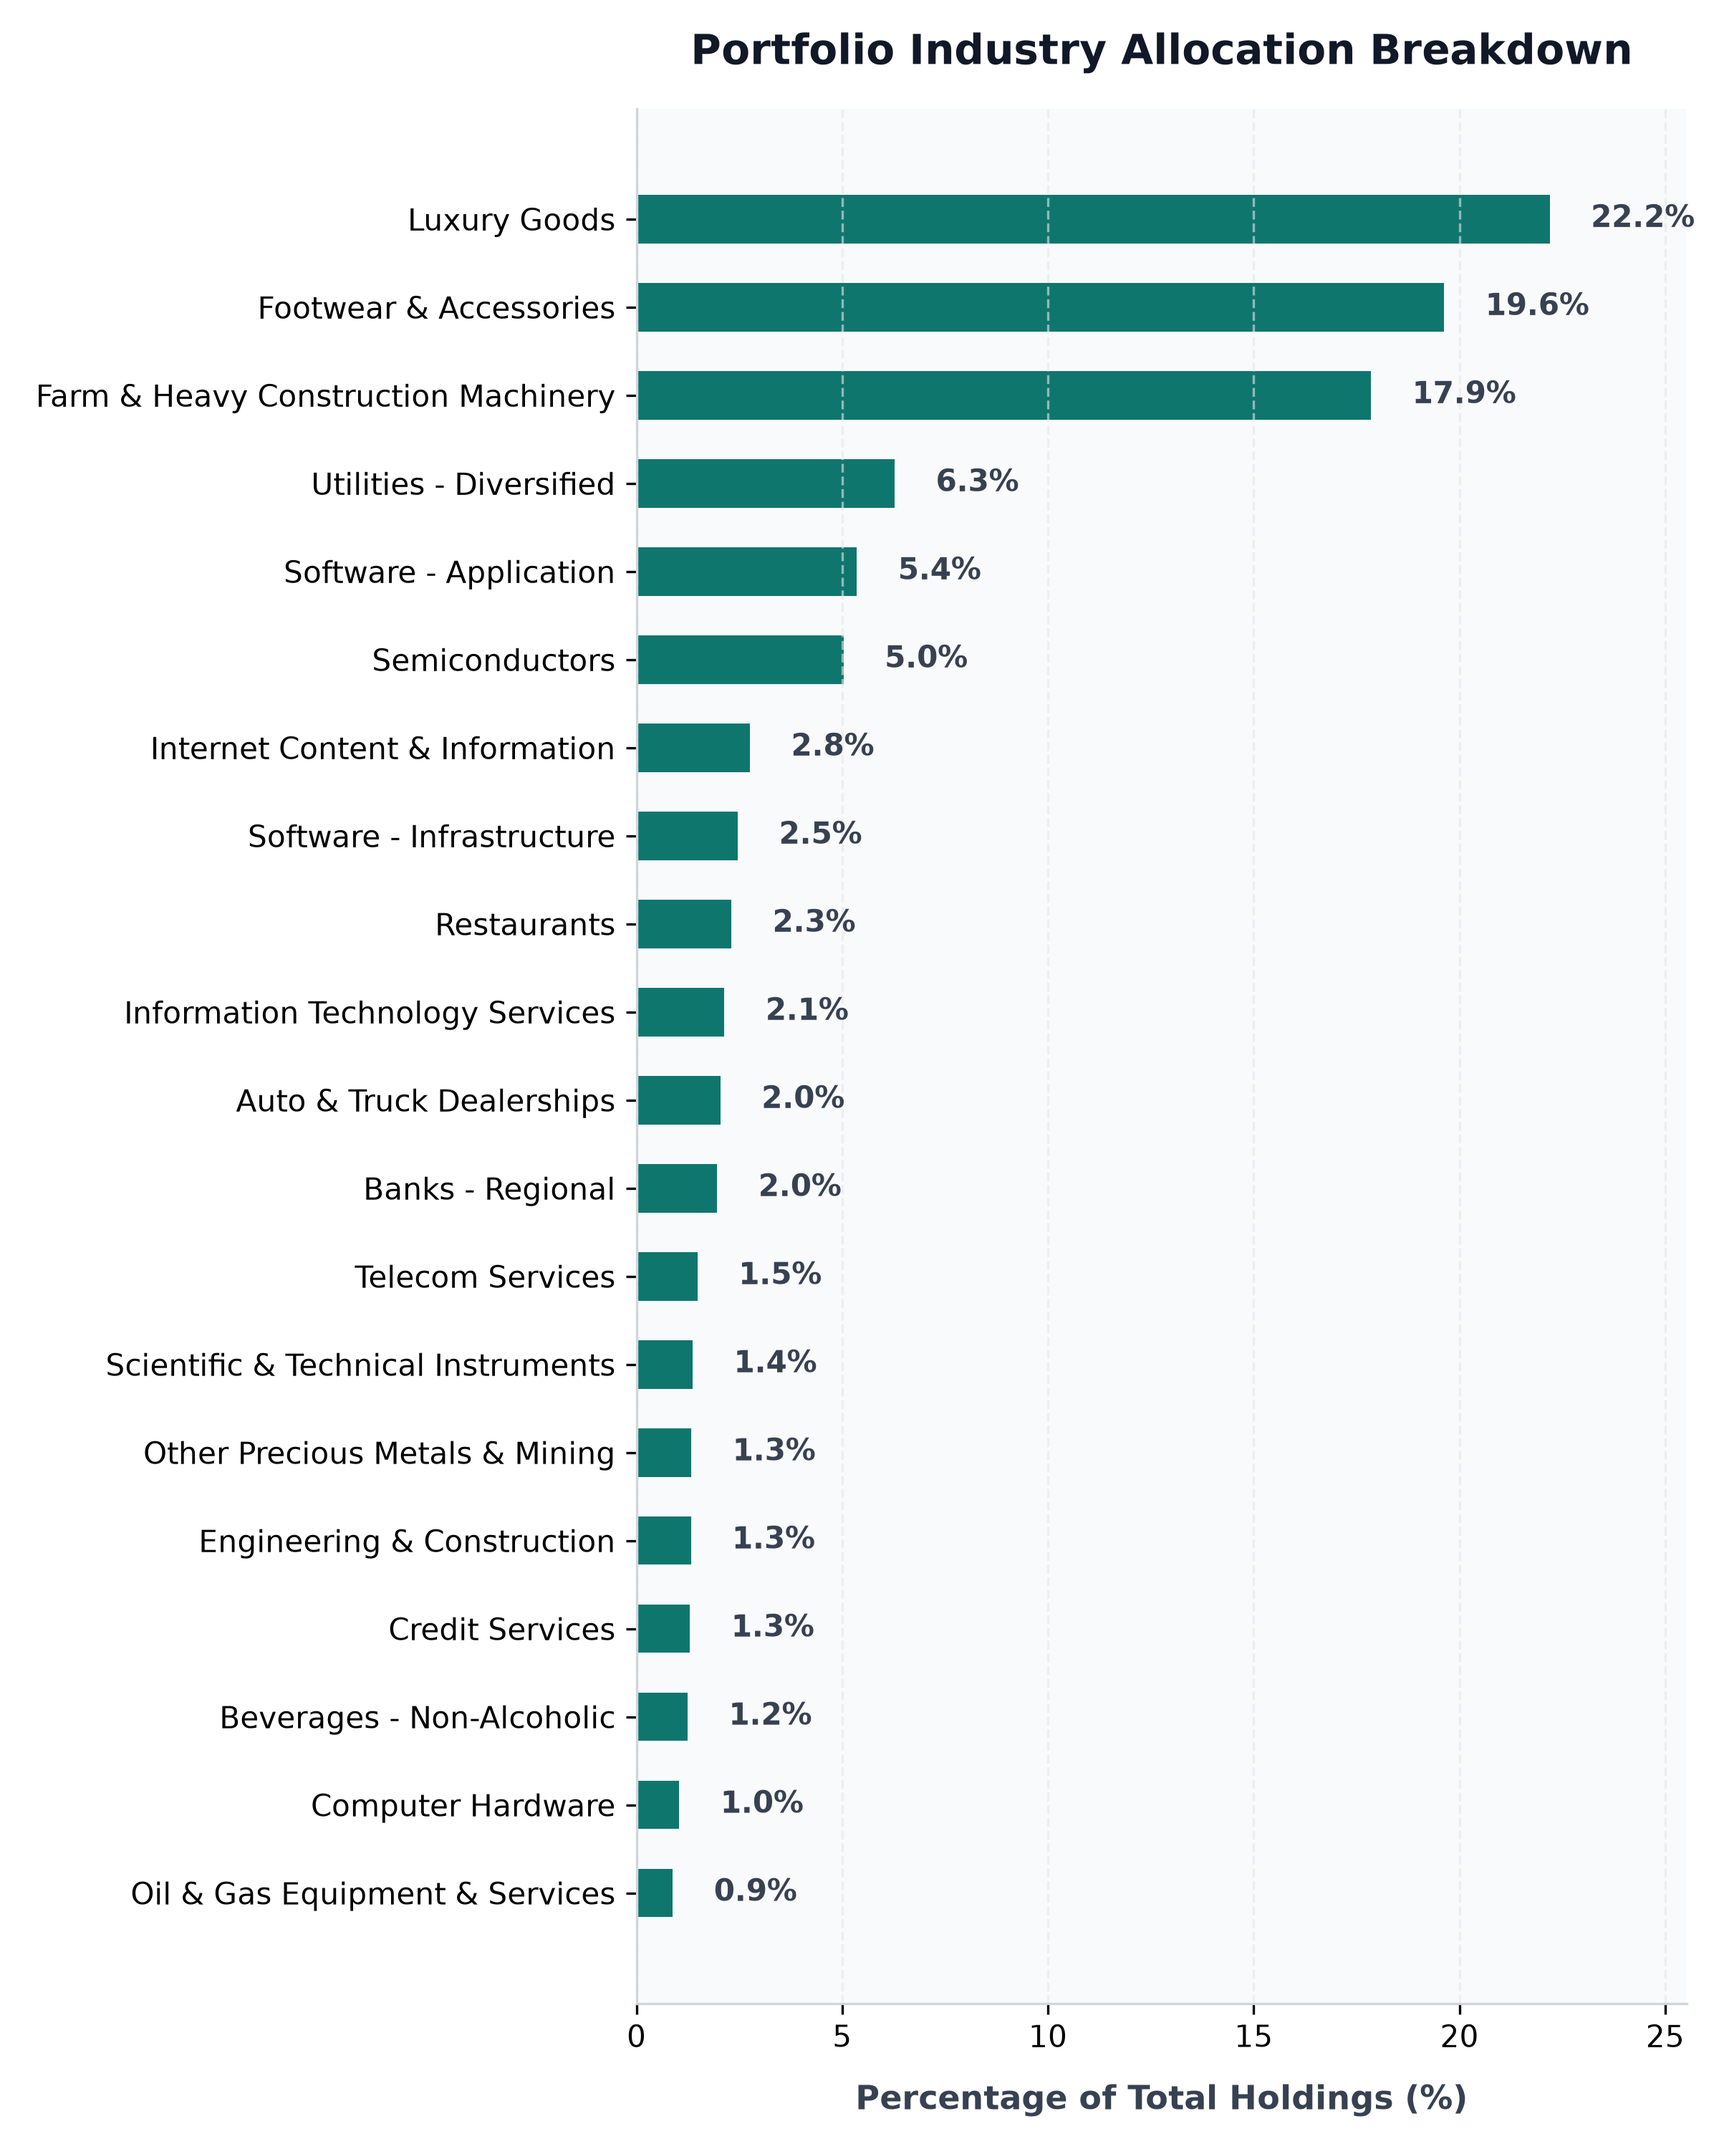
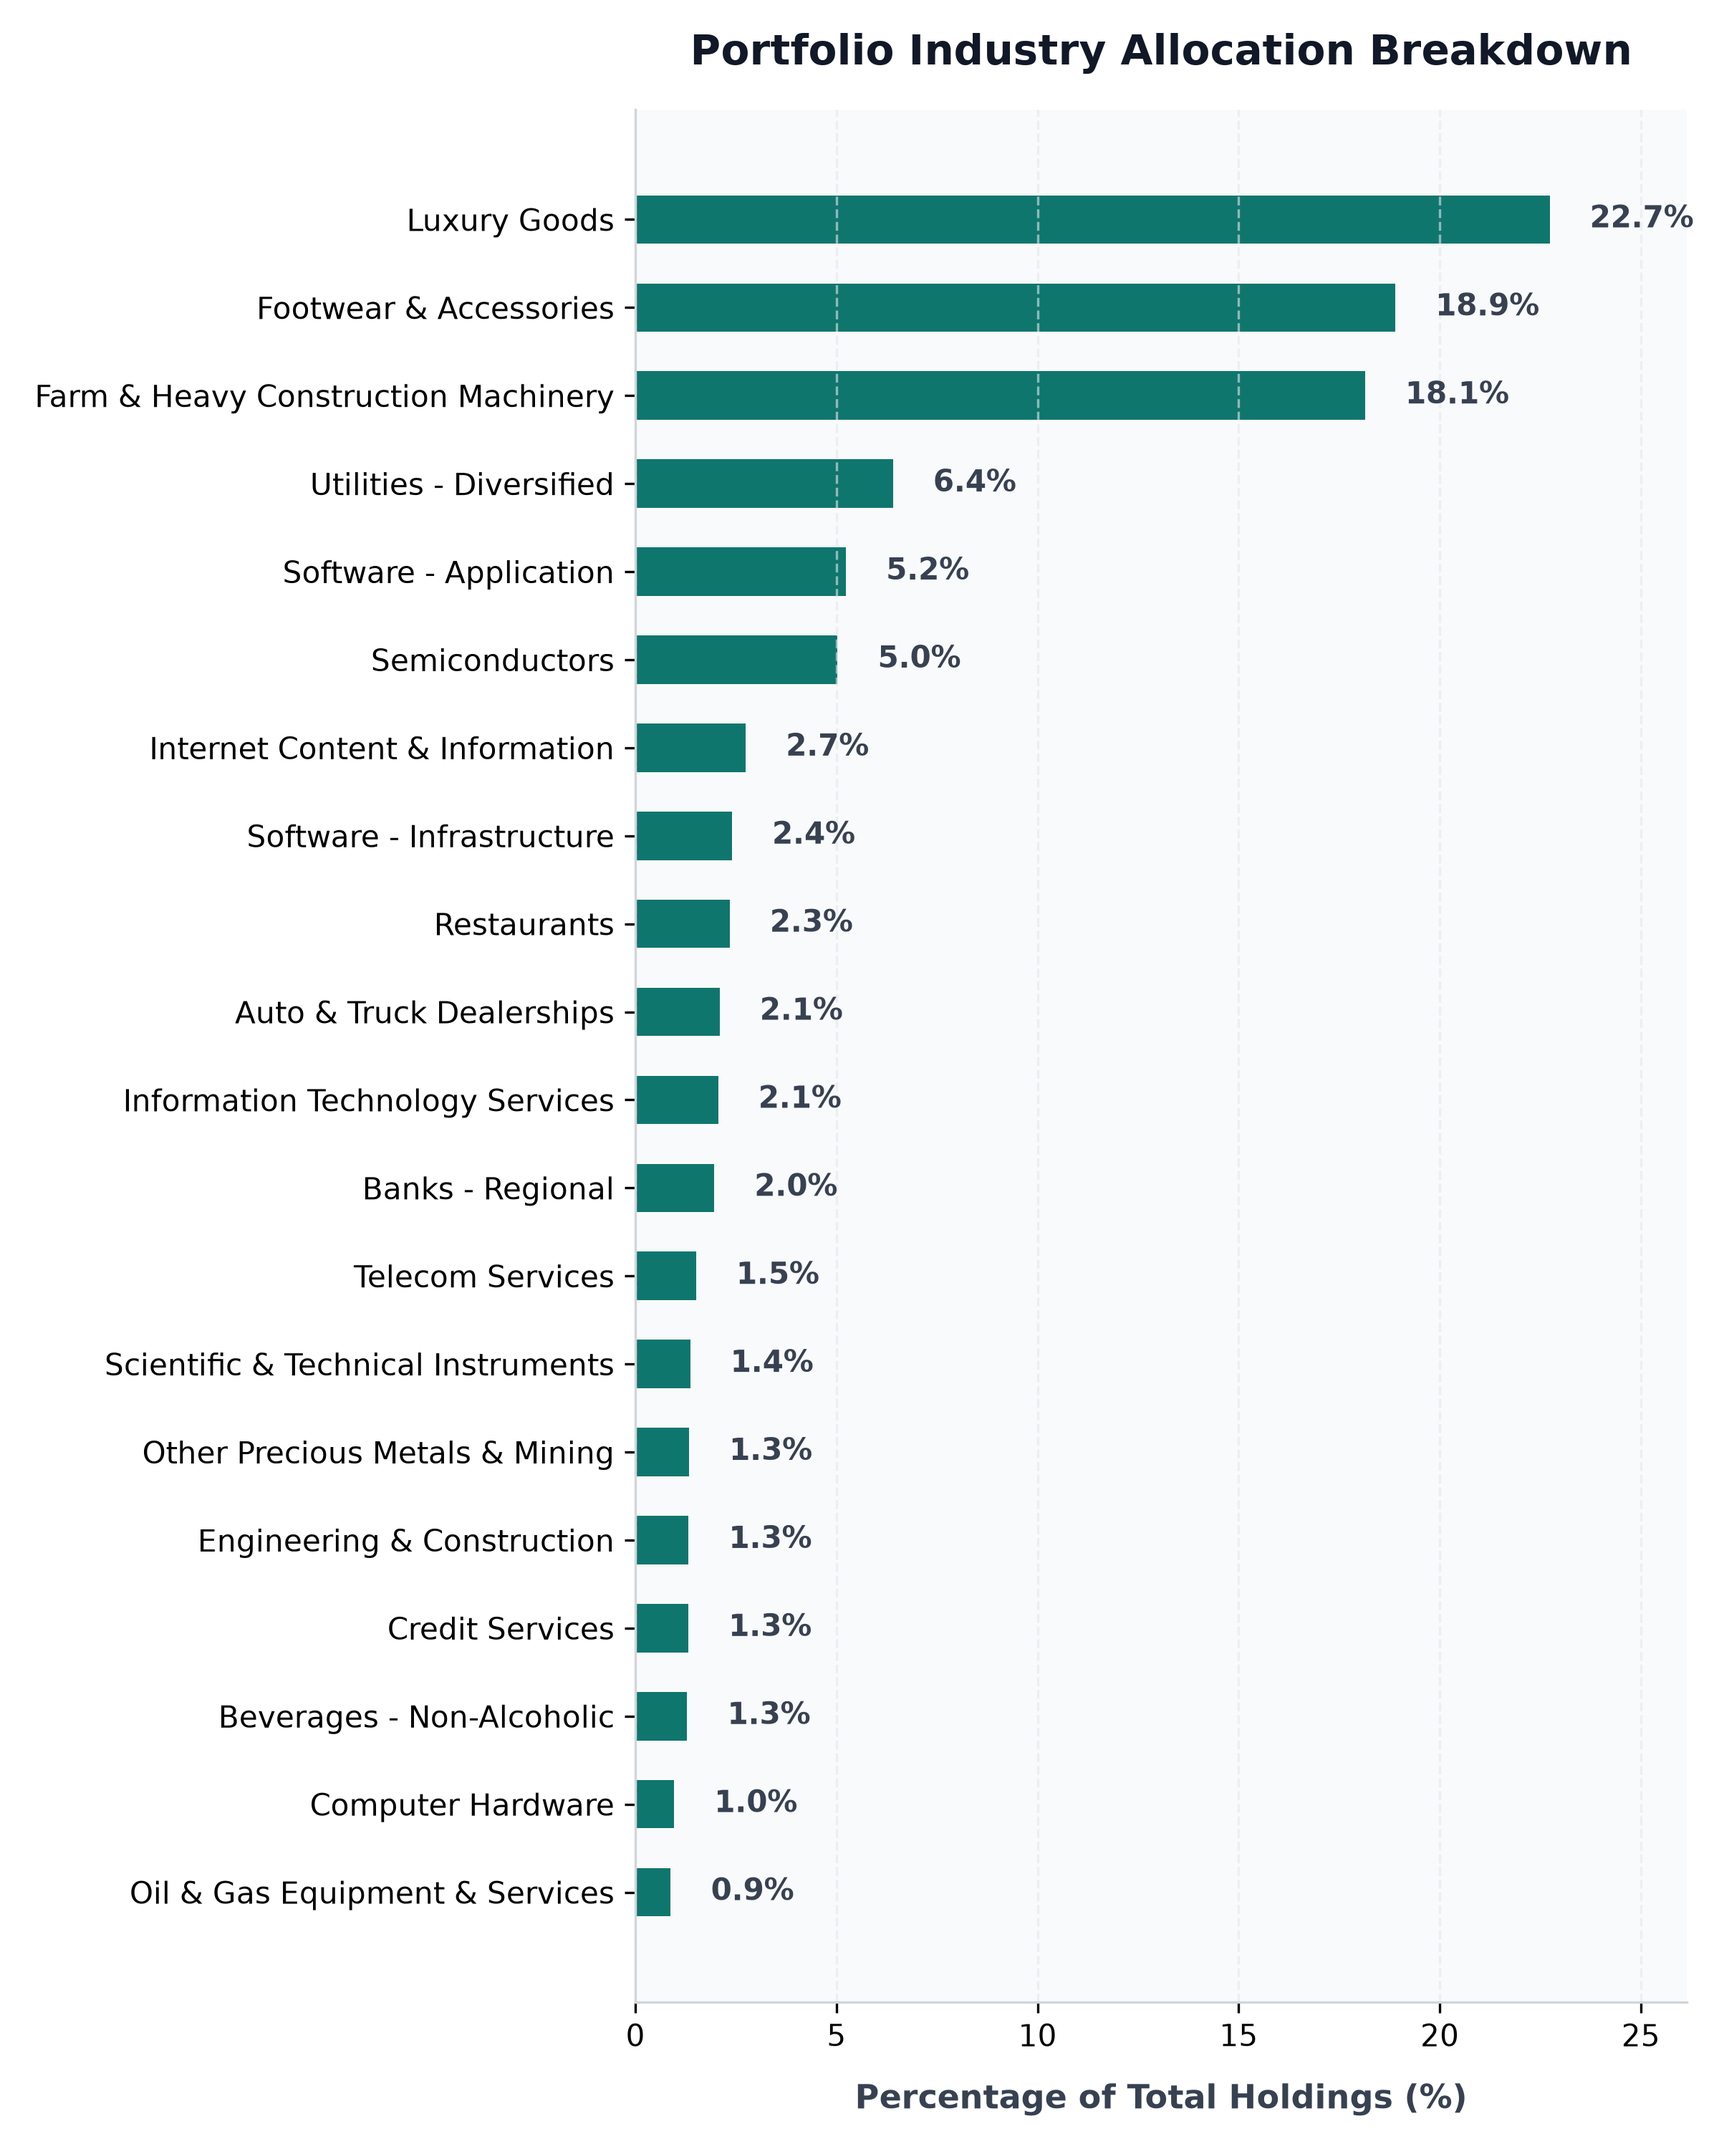
auto: daily portfolio status update - 2026-10-17 00:00:14

diff --git a/src/content/posts/portfolio-performance.md b/src/content/posts/portfolio-performance.md
@@ -1,6 +1,6 @@
 ---
 title: "BadOmen Algorithmic Portfolio Performance & PnL Report"
-pubDatetime: 2026-10-16T06:05:13.826400+08:00
+pubDatetime: 2026-10-17T00:00:14.484591+08:00
 description: "Live performance metrics, active holdings, and historic equity curve for the BadOmen automated paper trading portfolio."
 featured: true
 draft: false
@@ -16,11 +16,11 @@ Welcome to the live performance dashboard for **BadOmen**, our automated algorit
 ## 📊 Portfolio Summary
 | Performance Metric | Value | description |
 | :--- | :--- | :--- |
-| **Net Portfolio Equity** | **$98,634.27** | Total current liquidation value of cash and stock holdings |
-| **Total Unrealized P&L** | 🔴 **$-2,418.06** (-2.39%) | Total return of current open holdings |
-| **Cash Balance** | $24,224.56 | Idle reserve currency available for limit orders |
-| **Buying Power** | $305,245.43 | Margin-backed buying power for entry allocations |
-| **Report Updated** | `2026-10-16 06:05:13 (SGT)` | Timestamp of daily execution and sync run |
+| **Net Portfolio Equity** | **$98,090.96** | Total current liquidation value of cash and stock holdings |
+| **Total Unrealized P&L** | 🔴 **$-3,007.17** (-2.97%) | Total return of current open holdings |
+| **Cash Balance** | $24,266.50 | Idle reserve currency available for limit orders |
+| **Buying Power** | $303,774.49 | Margin-backed buying power for entry allocations |
+| **Report Updated** | `2026-10-17 00:00:14 (SGT)` | Timestamp of daily execution and sync run |
 
 ## 📈 Net Equity Growth Curve
 The chart below illustrates the historical performance of the account starting from our baseline capital funding of $100,000.00.
@@ -35,35 +35,35 @@ The chart below illustrates the exposure of our currently held active positions 
 ## 💼 Current Position Holdings
 | Ticker | Industry | Shares Owned | Average Entry Cost | Current Price | Unrealized P&L | Return (%) |
 | :--- | :--- | :--- | :--- | :--- | :--- | :--- |
-| **AN** | Auto & Truck Dealerships | 5 | $188.51 | $159.80 | 🔴 $-143.54 | -15.23% |
-| **AVGO** | Semiconductors | 1 | $385.71 | $343.90 | 🔴 $-41.81 | -10.84% |
-| **BIRK** | Footwear & Accessories | 407 | $37.32 | $35.89 | 🔴 $-581.08 | -3.83% |
-| **BLBD** | Farm & Heavy Construction Machinery | 231 | $65.52 | $57.51 | 🔴 $-1,849.38 | -12.22% |
-| **BVN** | Other Precious Metals & Mining | 32 | $31.88 | $31.05 | 🔴 $-26.40 | -2.59% |
-| **CELH** | Beverages - Non-Alcoholic | 33 | $29.71 | $28.06 | 🔴 $-54.54 | -5.56% |
-| **CPRI** | Luxury Goods | 1042 | $14.55 | $15.85 | 🟢 +$1,352.72 | +8.92% |
-| **DUOL** | Software - Application | 14 | $131.04 | $148.93 | 🟢 +$250.40 | +13.65% |
-| **FIS** | Information Technology Services | 23 | $41.79 | $36.13 | 🔴 $-130.18 | -13.54% |
-| **GDDY** | Software - Infrastructure | 6 | $76.21 | $107.61 | 🟢 +$188.40 | +41.20% |
-| **GDS** | Information Technology Services | 30 | $32.77 | $25.32 | 🔴 $-223.50 | -22.73% |
-| **GGAL** | Banks - Regional | 17 | $56.04 | $36.47 | 🔴 $-332.68 | -34.92% |
-| **GOOGL** | Internet Content & Information | 3 | $319.44 | $349.04 | 🟢 +$88.80 | +9.27% |
-| **GPI** | Auto & Truck Dealerships | 3 | $316.15 | $239.80 | 🔴 $-229.05 | -24.15% |
-| **HUBS** | Software - Application | 8 | $221.18 | $237.71 | 🟢 +$132.23 | +7.47% |
-| **ITRI** | Scientific & Technical Instruments | 12 | $81.80 | $84.77 | 🟢 +$35.64 | +3.63% |
-| **KBR** | Engineering & Construction | 27 | $36.23 | $36.44 | 🟢 +$5.59 | +0.57% |
-| **NESR** | Oil & Gas Equipment & Services | 34 | $28.74 | $19.34 | 🔴 $-319.60 | -32.71% |
-| **NU** | Banks - Regional | 57 | $11.60 | $14.75 | 🟢 +$179.63 | +27.17% |
-| **ON** | Semiconductors | 10 | $90.45 | $73.45 | 🔴 $-170.05 | -18.80% |
-| **ORCL** | Software - Infrastructure | 5 | $181.95 | $133.98 | 🔴 $-239.85 | -26.36% |
-| **PATH** | Software - Infrastructure | 38 | $10.25 | $13.64 | 🟢 +$128.82 | +33.07% |
-| **PYPL** | Credit Services | 17 | $56.05 | $57.00 | 🟢 +$16.15 | +1.70% |
-| **QCOM** | Semiconductors | 15 | $193.68 | $177.79 | 🔴 $-238.42 | -8.21% |
-| **SMCI** | Computer Hardware | 22 | $29.25 | $35.24 | 🟢 +$131.78 | +20.48% |
-| **SRE** | Utilities - Diversified | 57 | $84.75 | $81.93 | 🔴 $-160.88 | -3.33% |
-| **T** | Telecom Services | 47 | $20.85 | $23.49 | 🟢 +$124.08 | +12.66% |
-| **WEN** | Restaurants | 257 | $8.02 | $6.68 | 🔴 $-345.34 | -16.75% |
-| **ZG** | Internet Content & Information | 31 | $31.35 | $32.45 | 🟢 +$34.00 | +3.50% |
+| **AN** | Auto & Truck Dealerships | 5 | $188.51 | $162.78 | 🔴 $-128.64 | -13.65% |
+| **AVGO** | Semiconductors | 1 | $385.71 | $334.72 | 🔴 $-50.99 | -13.22% |
+| **BIRK** | Footwear & Accessories | 407 | $37.32 | $34.27 | 🔴 $-1,240.42 | -8.17% |
+| **BLBD** | Farm & Heavy Construction Machinery | 231 | $65.52 | $57.98 | 🔴 $-1,740.81 | -11.50% |
+| **BVN** | Other Precious Metals & Mining | 32 | $31.88 | $30.75 | 🔴 $-36.00 | -3.53% |
+| **CELH** | Beverages - Non-Alcoholic | 33 | $29.71 | $28.80 | 🔴 $-30.12 | -3.07% |
+| **CPRI** | Luxury Goods | 1042 | $14.55 | $16.11 | 🟢 +$1,618.43 | +10.67% |
+| **DUOL** | Software - Application | 14 | $131.04 | $146.68 | 🟢 +$218.90 | +11.93% |
+| **FIS** | Information Technology Services | 23 | $41.79 | $35.78 | 🔴 $-138.17 | -14.37% |
+| **GDDY** | Software - Infrastructure | 6 | $76.21 | $105.48 | 🟢 +$175.62 | +38.41% |
+| **GDS** | Information Technology Services | 30 | $32.77 | $23.19 | 🔴 $-287.40 | -29.23% |
+| **GGAL** | Banks - Regional | 17 | $56.04 | $36.00 | 🔴 $-340.67 | -35.76% |
+| **GOOGL** | Internet Content & Information | 3 | $319.44 | $343.87 | 🟢 +$73.28 | +7.65% |
+| **GPI** | Auto & Truck Dealerships | 3 | $316.15 | $243.78 | 🔴 $-217.11 | -22.89% |
+| **HUBS** | Software - Application | 8 | $221.18 | $226.27 | 🟢 +$40.71 | +2.30% |
+| **ITRI** | Scientific & Technical Instruments | 12 | $81.80 | $83.77 | 🟢 +$23.64 | +2.41% |
+| **KBR** | Engineering & Construction | 27 | $36.23 | $36.15 | 🔴 $-2.24 | -0.23% |
+| **NESR** | Oil & Gas Equipment & Services | 34 | $28.74 | $19.08 | 🔴 $-328.44 | -33.61% |
+| **NU** | Banks - Regional | 57 | $11.60 | $14.64 | 🟢 +$173.65 | +26.27% |
+| **ON** | Semiconductors | 10 | $90.45 | $73.86 | 🔴 $-166.00 | -18.35% |
+| **ORCL** | Software - Infrastructure | 5 | $181.95 | $129.37 | 🔴 $-262.93 | -28.90% |
+| **PATH** | Software - Infrastructure | 38 | $10.25 | $12.95 | 🟢 +$102.41 | +26.29% |
+| **PYPL** | Credit Services | 17 | $56.05 | $57.20 | 🟢 +$19.46 | +2.04% |
+| **QCOM** | Semiconductors | 15 | $193.68 | $175.86 | 🔴 $-267.37 | -9.20% |
+| **SMCI** | Computer Hardware | 22 | $29.25 | $32.27 | 🟢 +$66.55 | +10.34% |
+| **SRE** | Utilities - Diversified | 57 | $84.75 | $82.94 | 🔴 $-103.31 | -2.14% |
+| **T** | Telecom Services | 47 | $20.85 | $23.68 | 🟢 +$132.78 | +13.55% |
+| **WEN** | Restaurants | 257 | $8.02 | $6.73 | 🔴 $-332.49 | -16.12% |
+| **ZG** | Internet Content & Information | 31 | $31.35 | $32.02 | 🟢 +$20.51 | +2.11% |
 
 ## 🔴 Recent Realized Trades
 | Ticker | Shares Sold | Entry Price | Exit Price | Strategy Trigger | Realized Return | Exit Date |
